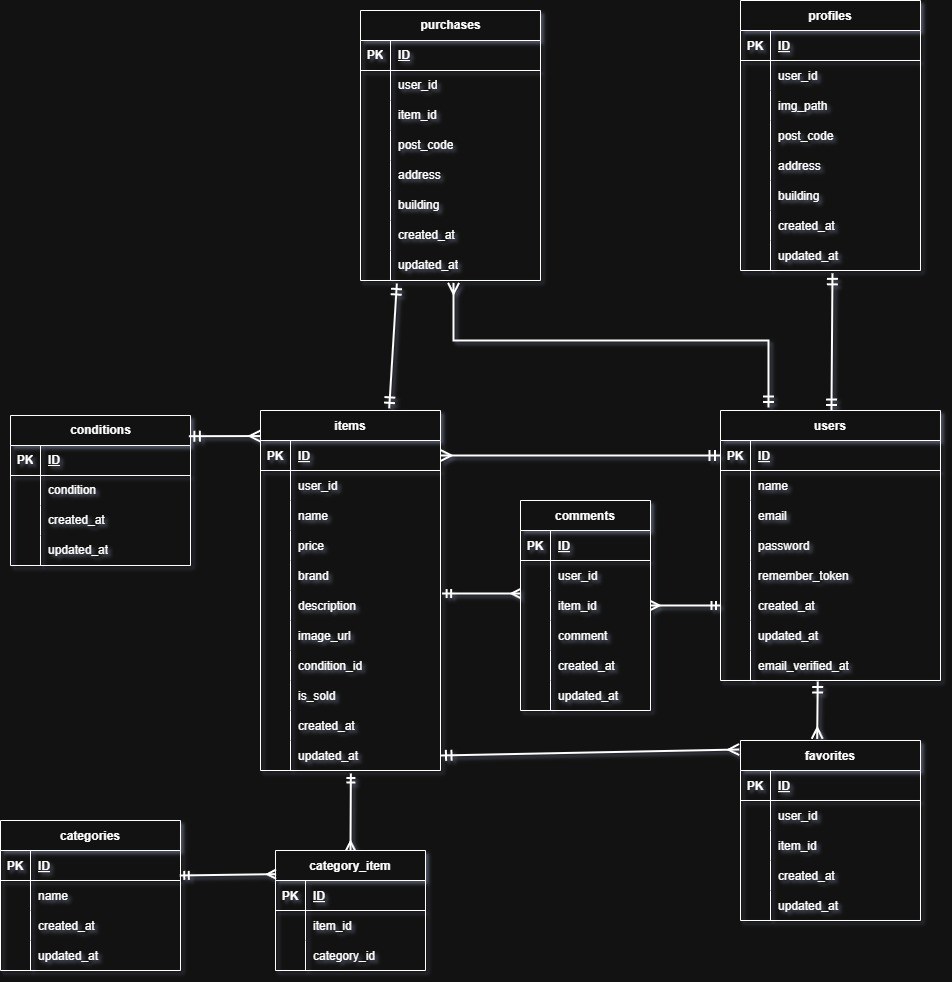
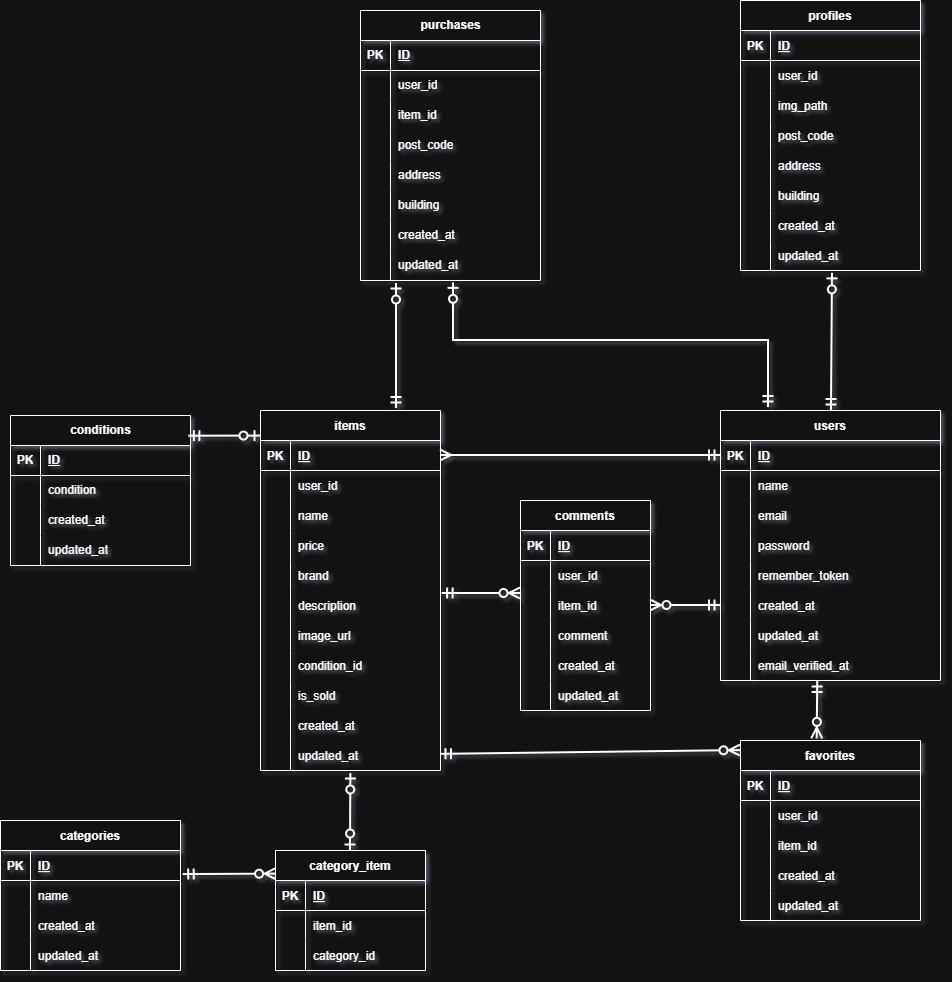
修正

diff --git a/src/public/css/item.css b/src/public/css/item.css
@@ -29,6 +29,11 @@
     margin-bottom: 5px;
 }
 
+.brand-name{
+    font-size: 20px;
+    margin-bottom: 5px;
+}
+
 .brand-name {
     font-size: 16px;
     color: #333;

diff --git a/src/database/seeders/ItemSeeder.php b/src/database/seeders/ItemSeeder.php
@@ -45,7 +45,7 @@ class ItemSeeder extends Seeder
             [
                 'name' => '玉ねぎ3束',
                 'price' => 300,
-                'brand' => null,
+                'brand' => "なし",
                 'description' => '新鮮な玉ねぎ3束のセット',
                 'image_url' => 'https://coachtech-matter.s3.ap-northeast-1.amazonaws.com/image/iLoveIMG+d.jpg',
                 'condition' => 'やや傷や汚れあり',
@@ -54,7 +54,7 @@ class ItemSeeder extends Seeder
             [
                 'name' => '革靴',
                 'price' => 4000,
-                'brand' => null,
+                'brand' => "なし",
                 'description' => 'クラシックなデザインの革靴',
                 'image_url' => 'https://coachtech-matter.s3.ap-northeast-1.amazonaws.com/image/Leather+Shoes+Product+Photo.jpg',
                 'condition' => '状態が悪い',
@@ -63,7 +63,7 @@ class ItemSeeder extends Seeder
             [
                 'name' => 'ノートPC',
                 'price' => 45000,
-                'brand' => null,
+                'brand' => "なし",
                 'description' => '高性能なノートパソコン',
                 'image_url' => 'https://coachtech-matter.s3.ap-northeast-1.amazonaws.com/image/Living+Room+Laptop.jpg',
                 'condition' => '良好',
@@ -72,7 +72,7 @@ class ItemSeeder extends Seeder
             [
                 'name' => 'マイク',
                 'price' => 8000,
-                'brand' => null,
+                'brand' => "なし",
                 'description' => '高音質のレコーディング用マイク',
                 'image_url' => 'https://coachtech-matter.s3.ap-northeast-1.amazonaws.com/image/Music+Mic+4632231.jpg',
                 'condition' => '目立った傷や汚れなし',
@@ -81,7 +81,7 @@ class ItemSeeder extends Seeder
             [
                 'name' => 'ショルダーバッグ',
                 'price' => 3500,
-                'brand' => null,
+                'brand' => "なし",
                 'description' => 'おしゃれなショルダーバッグ',
                 'image_url' => 'https://coachtech-matter.s3.ap-northeast-1.amazonaws.com/image/Purse+fashion+pocket.jpg',
                 'condition' => 'やや傷や汚れあり',
@@ -90,7 +90,7 @@ class ItemSeeder extends Seeder
             [
                 'name' => 'タンブラー',
                 'price' => 500,
-                'brand' => null,
+                'brand' => "なし",
                 'description' => '使いやすいタンブラー',
                 'image_url' => 'https://coachtech-matter.s3.ap-northeast-1.amazonaws.com/image/Tumbler+souvenir.jpg',
                 'condition' => '状態が悪い',
@@ -108,7 +108,7 @@ class ItemSeeder extends Seeder
             [
                 'name' => 'メイクセット',
                 'price' => 2500,
-                'brand' => null,
+                'brand' => "なし",
                 'description' => '便利なメイクアップセット',
                 'image_url' => 'https://coachtech-matter.s3.ap-northeast-1.amazonaws.com/image/%E5%A4%96%E5%87%BA%E3%83%A1%E3%82%A4%E3%82%AF%E3%82%A2%E3%83%83%E3%83%95%E3%82%9A%E3%82%BB%E3%83%83%E3%83%88.jpg',
                 'condition' => '目立った傷や汚れなし',

diff --git a/src/app/Http/Controllers/ItemController.php b/src/app/Http/Controllers/ItemController.php
@@ -5,7 +5,6 @@ namespace App\Http\Controllers;
 use App\Models\Item;
 use Illuminate\Http\Request;
 use Illuminate\Support\Facades\Auth;
-use Illuminate\Support\Facades\Storage;
 use App\Models\Category;
 use App\Models\Condition;
 use App\Http\Requests\ExhibitionRequest;
@@ -15,9 +14,10 @@ class ItemController extends Controller
 
     public function index(Request $request)
     {
-        $query = Item::query();
+        $tab = $request->query('tab');
+        $keyword = $request->query('keyword');
 
-        if ($request->query('tab') === 'mylist') {
+        if ($tab === 'mylist') {
             if (Auth::check()) {
                 /** @var \App\Models\User $user */
                 $user = Auth::user();
@@ -27,36 +27,20 @@ class ItemController extends Controller
                 return view('index', compact('items'));
             }
         } else {
+            $query = Item::query();
+
             if (Auth::check()) {
                 $query->where('user_id', '!=', Auth::id());
             }
         }
 
-        if ($request->filled('keyword')) {
-            $keyword = $request->input('keyword');
-            $query->where('name', 'LIKE', "%{$keyword}%");
+        if ($keyword) {
+            $query->where('name', 'like', '%' . $keyword . '%');
         }
 
-        $items = $query->latest()->get();
+        $items = $query->latest('items.created_at')->get();
 
         return view('index', compact('items'));
-    }
-
-    public function show($id)
-    {
-        $item = Item::with(['categories', 'comments.user'])
-            ->withCount(['favorites', 'comments'])
-            ->findOrFail($id);
-
-        $Favorite = false;
-
-        if (Auth::check()) {
-            /** @var \App\Models\User $user */
-            $user = Auth::user();
-            $Favorite = $user->favoriteItems()->where('item_id', $id)->exists();
-        }
-
-        return view('item_detail', compact('item', 'Favorite'));
     }
 
     public function favorite($item_id)
@@ -81,9 +65,23 @@ class ItemController extends Controller
     {
         $categories = Category::all();
         $conditions = Condition::all();
-        return view('sell', compact('categories','conditions'));
+        return view('sell', compact('categories', 'conditions'));
     }
+    public function show($item_id)
+    {
+        $item = Item::with(['condition', 'categories', 'comments.user'])
+            ->withCount(['favorites', 'comments'])
+            ->findOrFail($item_id);
 
+        $is_favorite = false;
+        if (Auth::check()) {
+            /** @var \App\Models\User $user */
+            $user = Auth::user();
+            $is_favorite = $user->favoriteItems()->where('item_id', $item_id)->exists();
+        }
+
+        return view('item_detail', compact('item', 'is_favorite'));
+    }
     public function store(ExhibitionRequest $request)
     {
         $path = null;
@@ -99,7 +97,7 @@ class ItemController extends Controller
             'price'        => $request->price,
             'condition_id' => $request->condition_id,
             'image_url'    => $path,
-            'brand'        => $request->brand,
+            'brand'        => $request->brand ?? 'なし',
         ]);
 
         $item->categories()->attach($request->category_ids);

diff --git a/src/resources/views/purchase.blade.php b/src/resources/views/purchase.blade.php
@@ -14,13 +14,13 @@
                 <div class="item-summary">
                     <img src="{{ str_starts_with($item->image_url, 'http') ? $item->image_url : asset('storage/' . $item->image_url) }}" alt="{{ $item->name }}" width="400" height="400">
                     <div class="item-detail">
-                        <h2>{{ $item->name }}</h2>
+                        <h1>{{ $item->name }}</h1>
                         <p>¥{{ number_format($item->price) }}</p>
                     </div>
                 </div>
 
                 <section class="payment-selection">
-                    <h3>支払い方法</h3>
+                    <h2>支払い方法</h2>
                     <div class="select-wrapper">
                         <select name="payment_method" id="payment_method" class="payment-select">
                             <option value="" disabled selected>選択してください</option>
@@ -37,7 +37,7 @@
 
                 <section class="address-selection">
                     <div class="address-header">
-                        <h3>配送先</h3>
+                        <h2>配送先</h2>
                         <a href="{{ route('address.edit', ['item_id' => $item->id]) }}">変更する</a>
                     </div>
                     <p>〒 {{ $address['post_code'] }}</p>

diff --git a/src/tests/Feature/ItemDetailFeatureTest.php b/src/tests/Feature/ItemDetailFeatureTest.php
@@ -79,12 +79,20 @@ class ItemDetailFeatureTest extends TestCase
         $this->assertDatabaseHas('comments', ['comment' => 'テストコメント投下']);
 
         $this->post(route('comment.store', ['item_id' => $item->id]), ['comment' => '未ログイン'])
-            ->assertRedirect('/');
+            ->assertRedirect("/");
 
-        $response = $this->actingAs($user)
+        $responseEmpty = $this->actingAs($user)
             ->from(route('item.show', ['id' => $item->id]))
             ->post(route('comment.store', ['item_id' => $item->id]), ['comment' => '']);
 
-        $response->assertSessionHasErrors(['comment']);
+        $responseEmpty->assertSessionHasErrors(['comment' => 'コメントを入力してください。']);
+
+        $responseTooLong = $this->actingAs($user)
+            ->from(route('item.show', ['id' => $item->id]))
+            ->post(route('comment.store', ['item_id' => $item->id]), [
+                'comment' => str_repeat('あ', 256)
+            ]);
+
+        $responseTooLong->assertSessionHasErrors(['comment' => 'コメントは255文字以内で入力してください。']);
     }
 }

diff --git a/src/resources/views/item_detail.blade.php b/src/resources/views/item_detail.blade.php
@@ -16,6 +16,7 @@
 
             <div class="main-info">
                 <h1 class="item-name">{{ $item->name }}</h1>
+                <h2 class="brand-name">ブランド名</h2>
                 <p class="brand-name">{{ $item->brand}}</p>
                 <p class="price">
                     <span class="currency">¥</span>{{ number_format($item->price) }} <span class="tax-in">(税込)</span>
@@ -24,7 +25,7 @@
                 <div class="action-icons">
                     <div class="icon-group">
                         @auth
-                        @if($Favorite)
+                        @if($is_favorite)
                         <form action="{{ route('favorite.destroy', ['item_id' => $item->id]) }}" method="POST" class="favorite-form">
                             @csrf
                             @method('DELETE')

diff --git a/src/resources/views/index.blade.php b/src/resources/views/index.blade.php
@@ -7,12 +7,12 @@
 @section('content')
 <main>
     <div class="list-tab">
-        <a href="{{ route('index') }}"
+        <a href="{{ route('index', ['keyword' => request()->query('keyword')]) }}"
             class="{{ request()->query('tab') !== 'mylist' ? 'active' : '' }}">
             おすすめ
         </a>
 
-        <a href="{{ route('index', ['tab' => 'mylist']) }}"
+        <a href="{{ route('index', ['tab' => 'mylist', 'keyword' => request()->query('keyword')]) }}"
             class="{{ request()->query('tab') === 'mylist' ? 'active' : '' }}">
             マイリスト
         </a>

diff --git a/src/resources/views/sell.blade.php b/src/resources/views/sell.blade.php
@@ -6,7 +6,7 @@
 
 @section('content')
 <main class="sell-container">
-    <h2 class="sell-title">商品の出品</h2>
+    <h1 class="sell-title">商品の出品</h1>
 
     <form action="{{ route('item.store') }}" method="POST" enctype="multipart/form-data">
         @csrf
@@ -29,7 +29,7 @@
             </div>
         </div>
 
-        <h3 class="sub-title">商品の詳細</h3>
+        <h2 class="sub-title">商品の詳細</h2>
         <hr>
 
         <div class="form-group">

diff --git a/src/database/migrations/2026_01_06_222501_create_items_table.php b/src/database/migrations/2026_01_06_222501_create_items_table.php
@@ -17,7 +17,7 @@ class CreateItemsTable extends Migration
             $table->id();
             $table->string('name');
             $table->integer('price');
-            $table->string('brand')->nullable();
+            $table->string('brand')->default('なし');
             $table->text('description');
             $table->string('image_url');
             $table->foreignId('condition_id')->constrained()->cascadeOnDelete();

diff --git a/src/resources/views/mypage.blade.php b/src/resources/views/mypage.blade.php
@@ -15,7 +15,7 @@
                 <div class="default-circle"></div>
                 @endif
             </div>
-            <h2 class="user-name">{{ $user->name }}</h2>
+            <h1 class="user-name">{{ $user->name }}</h1>
         </div>
 
         <a href="{{ url('/mypage/profile') }}" class="btn-edit-profile">プロフィールを編集</a>

diff --git a/src/resources/views/profile.blade.php b/src/resources/views/profile.blade.php
@@ -7,7 +7,7 @@
 @section('content')
 <div class="profile-form__content">
     <div class="profile-form__heading">
-        <h2>プロフィール設定</h2>
+        <h1>プロフィール設定</h1>
     </div>
 
     <form class="form" action="{{ route('profile.update') }}" method="POST" enctype="multipart/form-data">

diff --git a/src/resources/views/auth/register.blade.php b/src/resources/views/auth/register.blade.php
@@ -7,7 +7,7 @@
 @section('content')
 <div class="register-form__content">
     <div class="register-form__heading">
-        <h2>会員登録</h2>
+        <h1>会員登録</h1>
     </div>
     <form class="form" action="{{route('register.store')}}" method="post">
         @csrf
